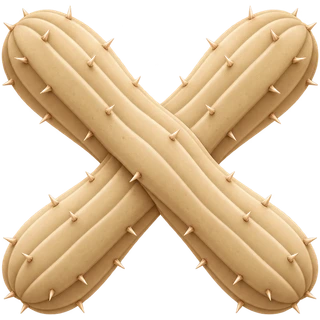
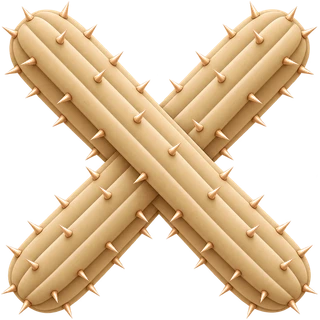
Croix cactus : version avec epines dorees

diff --git a/public/index.html b/public/index.html
@@ -295,7 +295,7 @@ body[data-screen="lobby"] #profile-btn{display:block}
 /* The card artwork is a fixed 1473x794 image (public/profile-card-bg.webp). Every slot below
    is placed on a frame painted in it, so these values must be re-measured if the image changes. */
 .profil-card{position:relative;width:1473px;height:794px;flex-shrink:0;background:url('/profile-card-bg.webp') center/100% 100% no-repeat;filter:drop-shadow(0 24px 50px rgba(0,0,0,.6));font-family:'Playfair Display',serif;color:#0b221c;font-variant-numeric:lining-nums;animation:slideUp .3s cubic-bezier(.34,1.56,.64,1) both}
-.cactus-close{position:absolute;width:56px;height:56px;padding:0;border:0;background:url('/close-cactus.webp?v=3') center/contain no-repeat;cursor:pointer;filter:drop-shadow(0 3px 5px rgba(0,0,0,.35));transition:transform .18s ease}
+.cactus-close{position:absolute;width:56px;height:56px;padding:0;border:0;background:url('/close-cactus.webp?v=4') center/contain no-repeat;cursor:pointer;filter:drop-shadow(0 3px 5px rgba(0,0,0,.35));transition:transform .18s ease}
 .cactus-close:hover{transform:scale(1.1)}
 .cactus-close:active{transform:scale(.95)}
 .pc-close{top:30px;right:36px;width:72px;height:72px}
